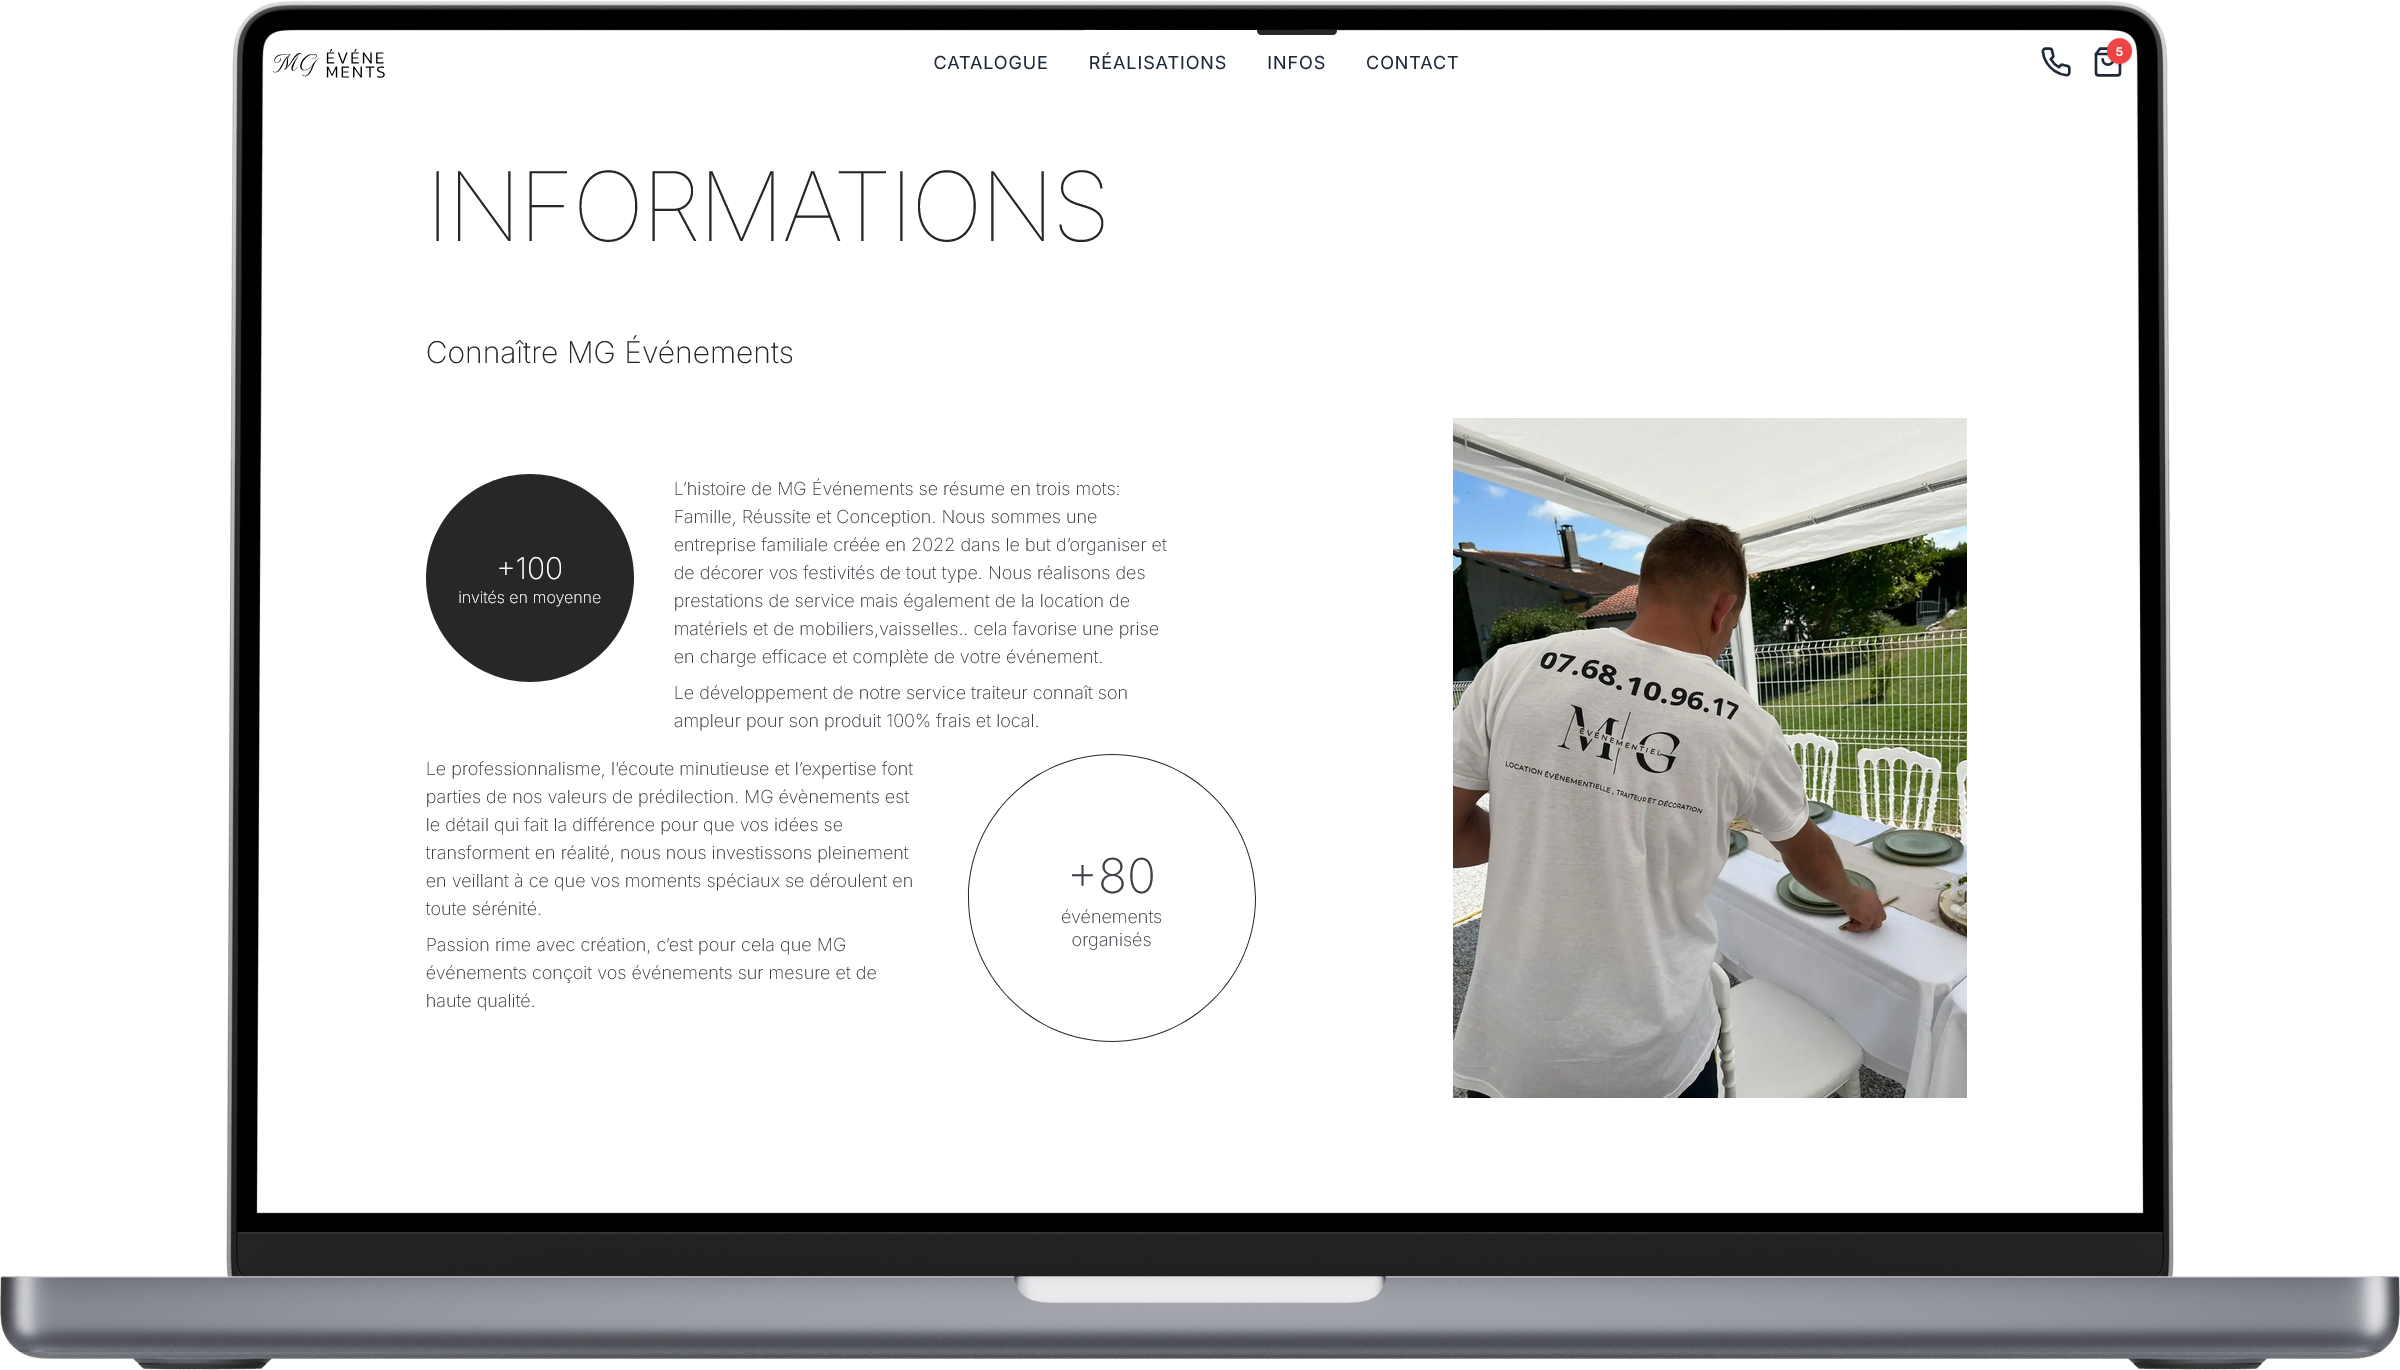
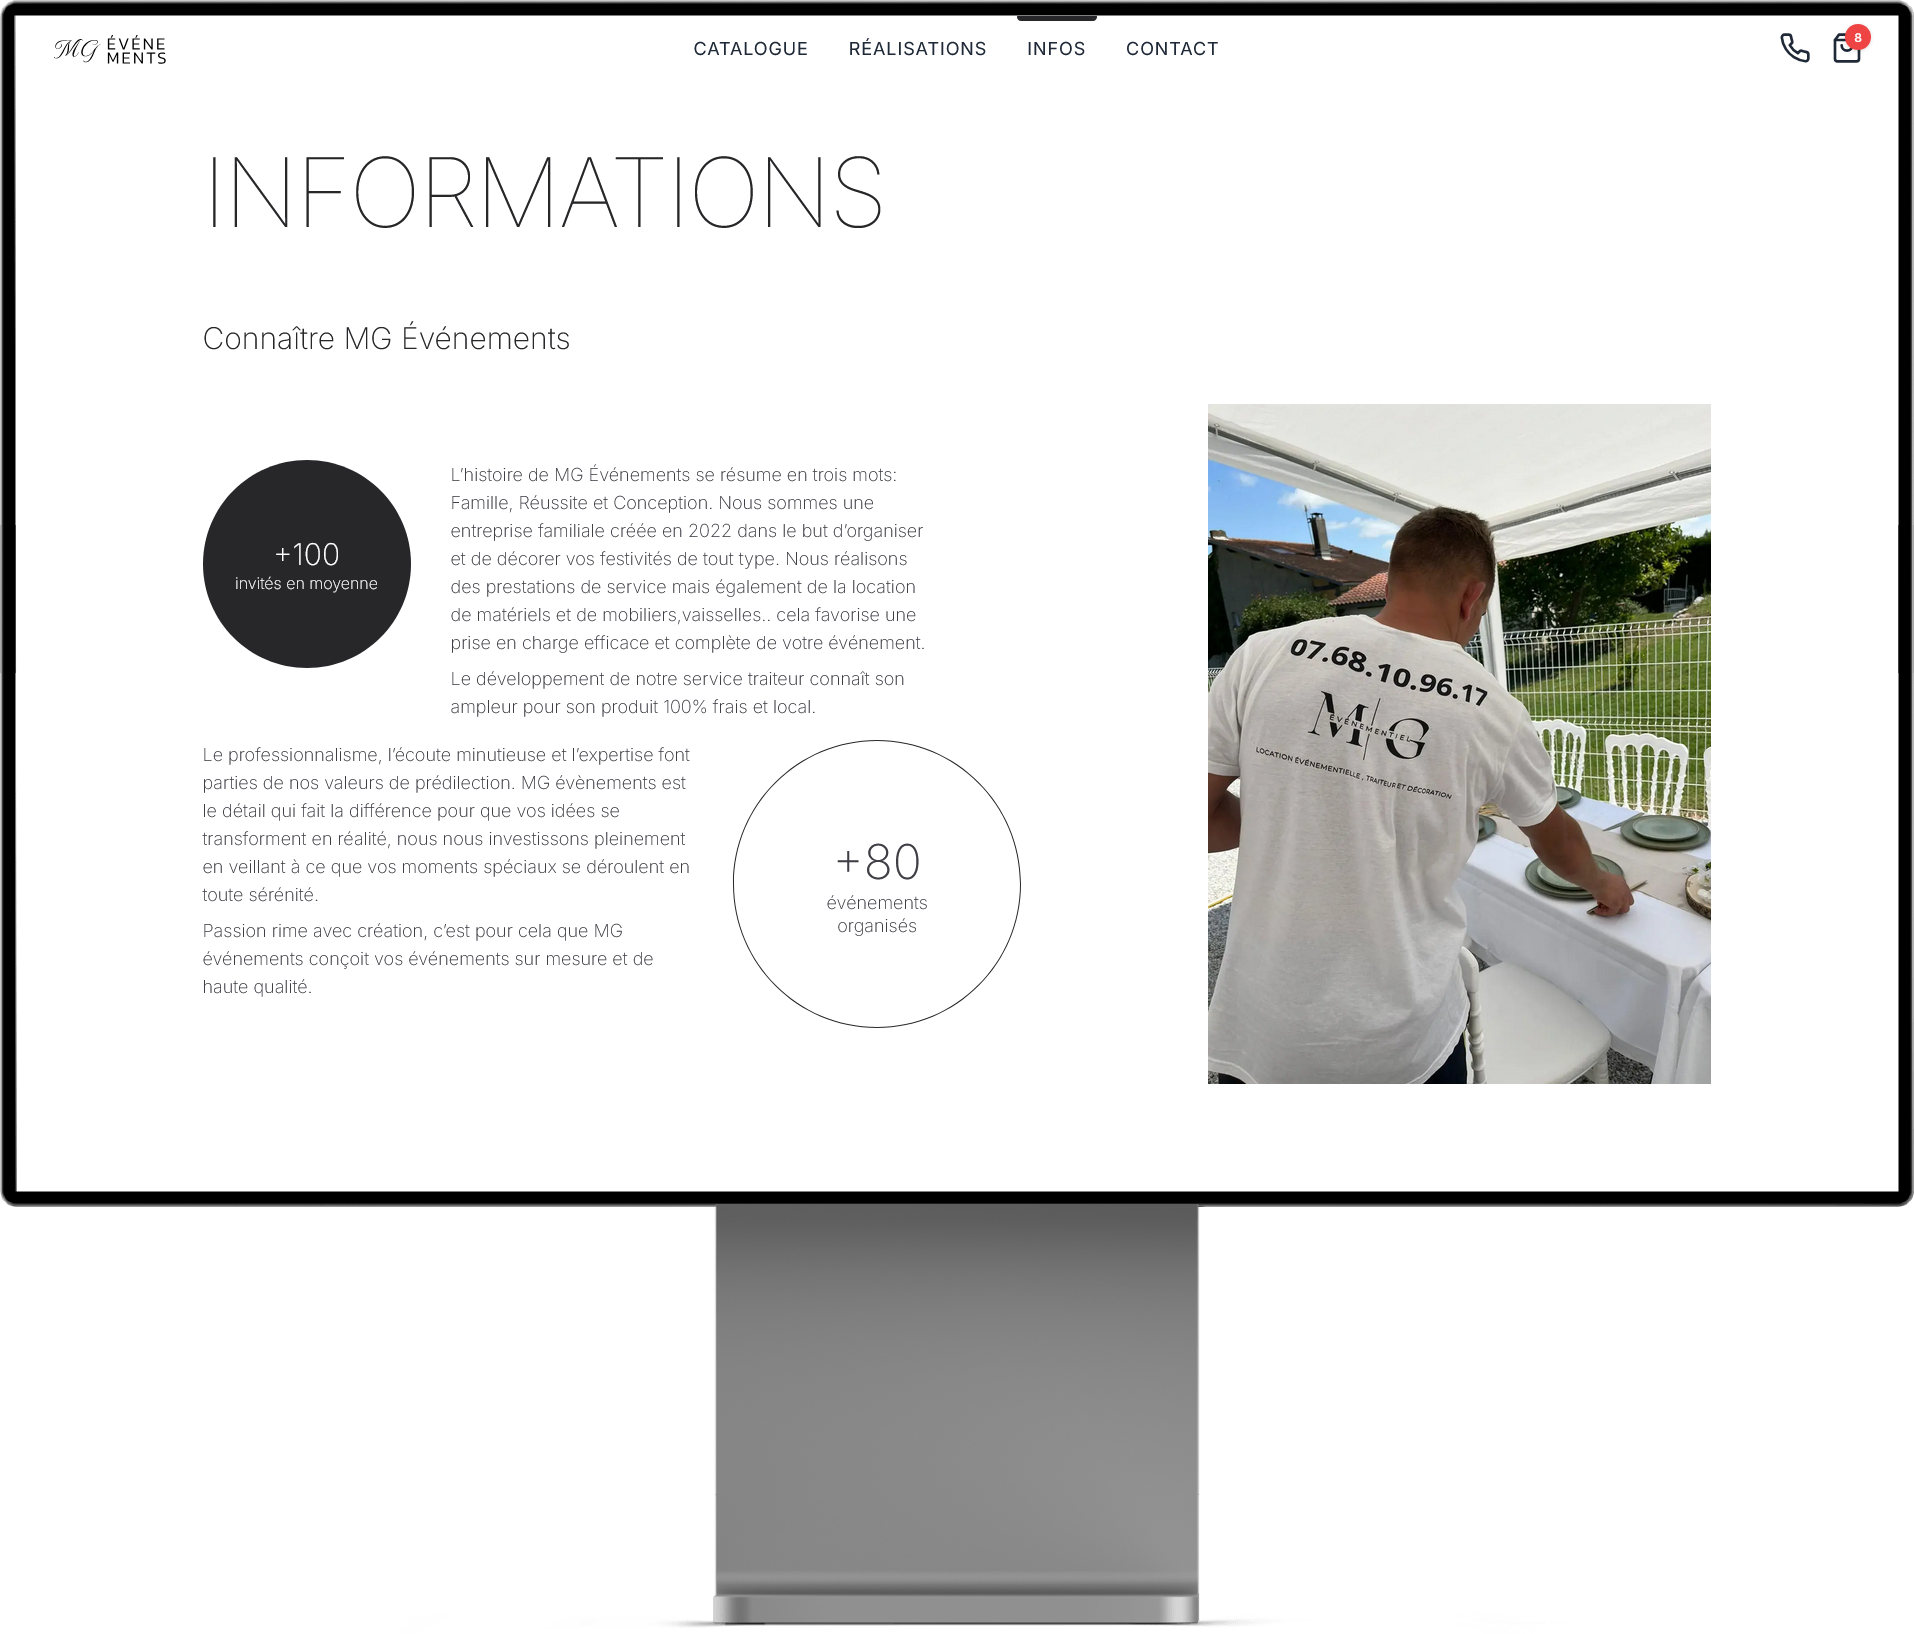
Added new mac image for mgevenements + updated the project section

diff --git a/src/components/ProjectPresentation/ProjectSection.tsx b/src/components/ProjectPresentation/ProjectSection.tsx
@@ -50,7 +50,7 @@ export default function ProjectSection({ title, mainImage, macImage, macImage2, 
         </div>
       </div>
 
-      <Spacer mobileSize="xs" size="xs" />
+      <Spacer mobileSize="xxs" size="xs" />
       
       <Character 
         paragraph={firstDescription ? firstDescription : []}
@@ -59,11 +59,11 @@ export default function ProjectSection({ title, mainImage, macImage, macImage2, 
         textAlign="center"
       />
 
-      <Spacer mobileSize="xs" size="xs" />
+      <Spacer mobileSize="xxs" size="xs" />
 
       <div className="w-full max-w-[90%] lg:max-w-[68%] mx-auto">
         {/* Mac Image */}
-        <div className="relative w-full aspect-[16/9] mb-32">
+        <div className="relative w-full aspect-[16/9]">
           <Image 
             src={macImage}
             alt={`${title} mac preview`}
@@ -73,6 +73,8 @@ export default function ProjectSection({ title, mainImage, macImage, macImage2, 
         </div>
       </div>
 
+      <Spacer mobileSize="xxs" size="xs" />
+
       <Character 
         paragraph={secondDescription ? secondDescription : []}
         size="sm"
@@ -80,12 +82,12 @@ export default function ProjectSection({ title, mainImage, macImage, macImage2, 
         textAlign="center"
       />
 
-      <Spacer mobileSize="xs" size="xs" />
+      <Spacer mobileSize="xxs" size="xs" />
 
       {/* Mobile Showcase */}
       {(mobile1 || mobile2 || mobile3) && (
-        <div className="w-full lg:max-w-[85%] mx-auto">
-          <div className="relative w-full aspect-[16/9] flex items-center justify-center gap-4 md:gap-36 mb-32">
+        <div className="w-full max-w-[100%] lg:max-w-[80%] mx-auto">
+          <div className="relative w-full aspect-[16/9] flex items-center justify-center gap-4 lg:gap-12">
             {mobile1 && (
               <div className="relative w-[25%] aspect-[9/19]">
                 <Image 
@@ -120,6 +122,8 @@ export default function ProjectSection({ title, mainImage, macImage, macImage2, 
         </div>
       )}
 
+      <Spacer mobileSize="xxs" size="xs" />
+
       <Character 
         paragraph={thirdDescription ? thirdDescription : []}
         size="sm"
@@ -127,10 +131,10 @@ export default function ProjectSection({ title, mainImage, macImage, macImage2, 
         textAlign="center"
       />
 
-      <Spacer mobileSize="xs" size="xs" />
+      <Spacer mobileSize="xxs" size="xs"/>
 
-      <div className="w-full max-w-[90%] lg:max-w-[68%] mx-auto">
-        {/* Mac Image */}
+      <div className="w-full max-w-[100%] mx-auto">
+        {/* Mac Image 2 */}
         <div className="relative w-full aspect-[16/9] mb-32">
           <Image 
             src={macImage2}
